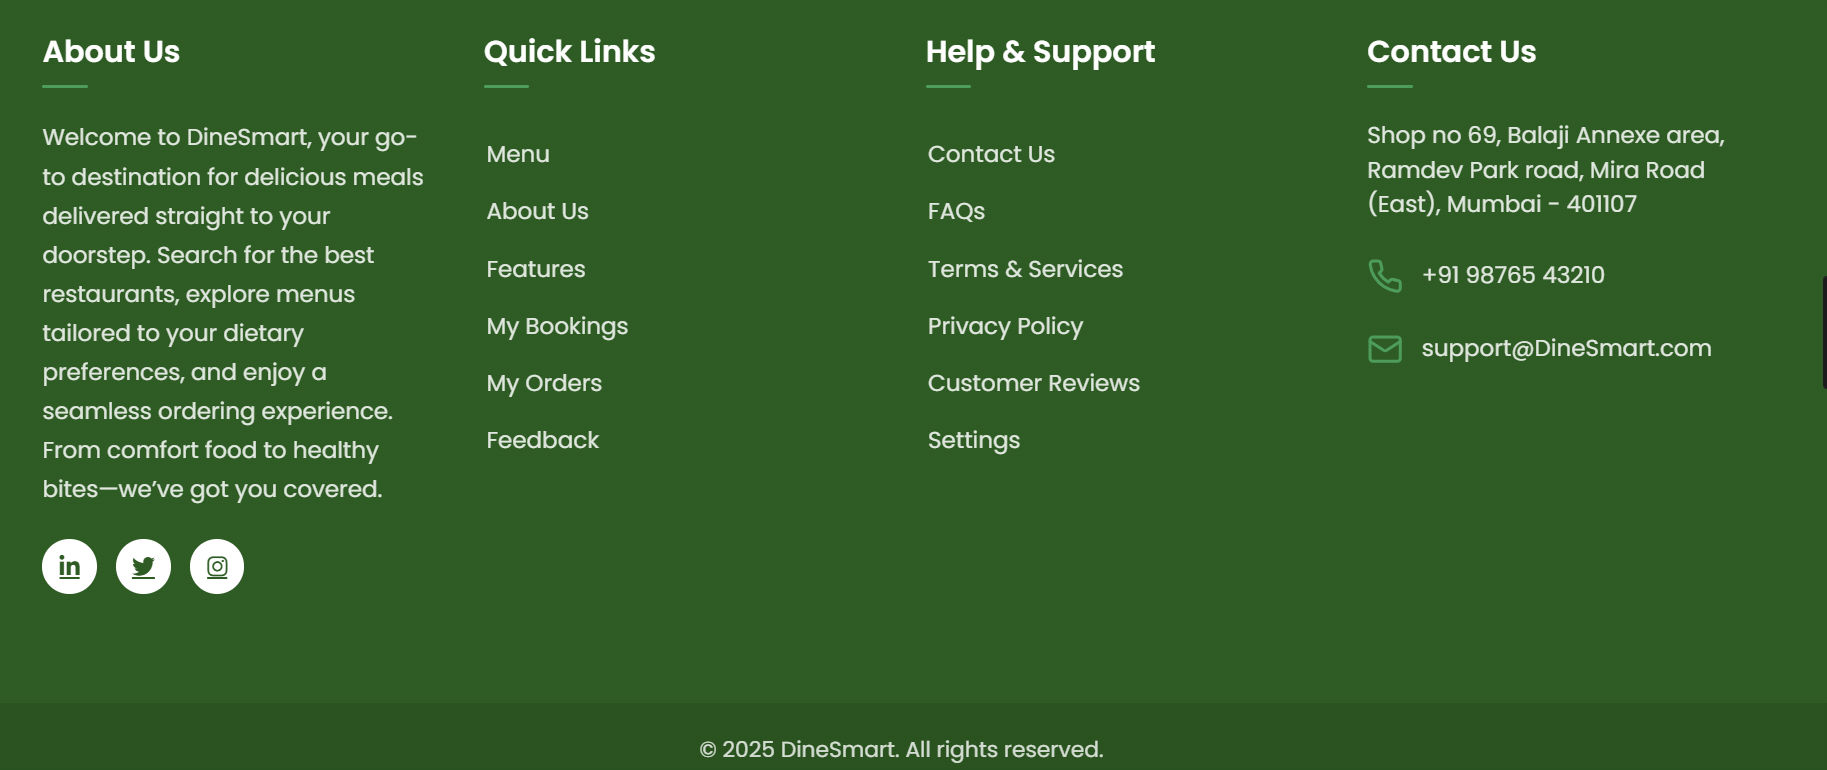
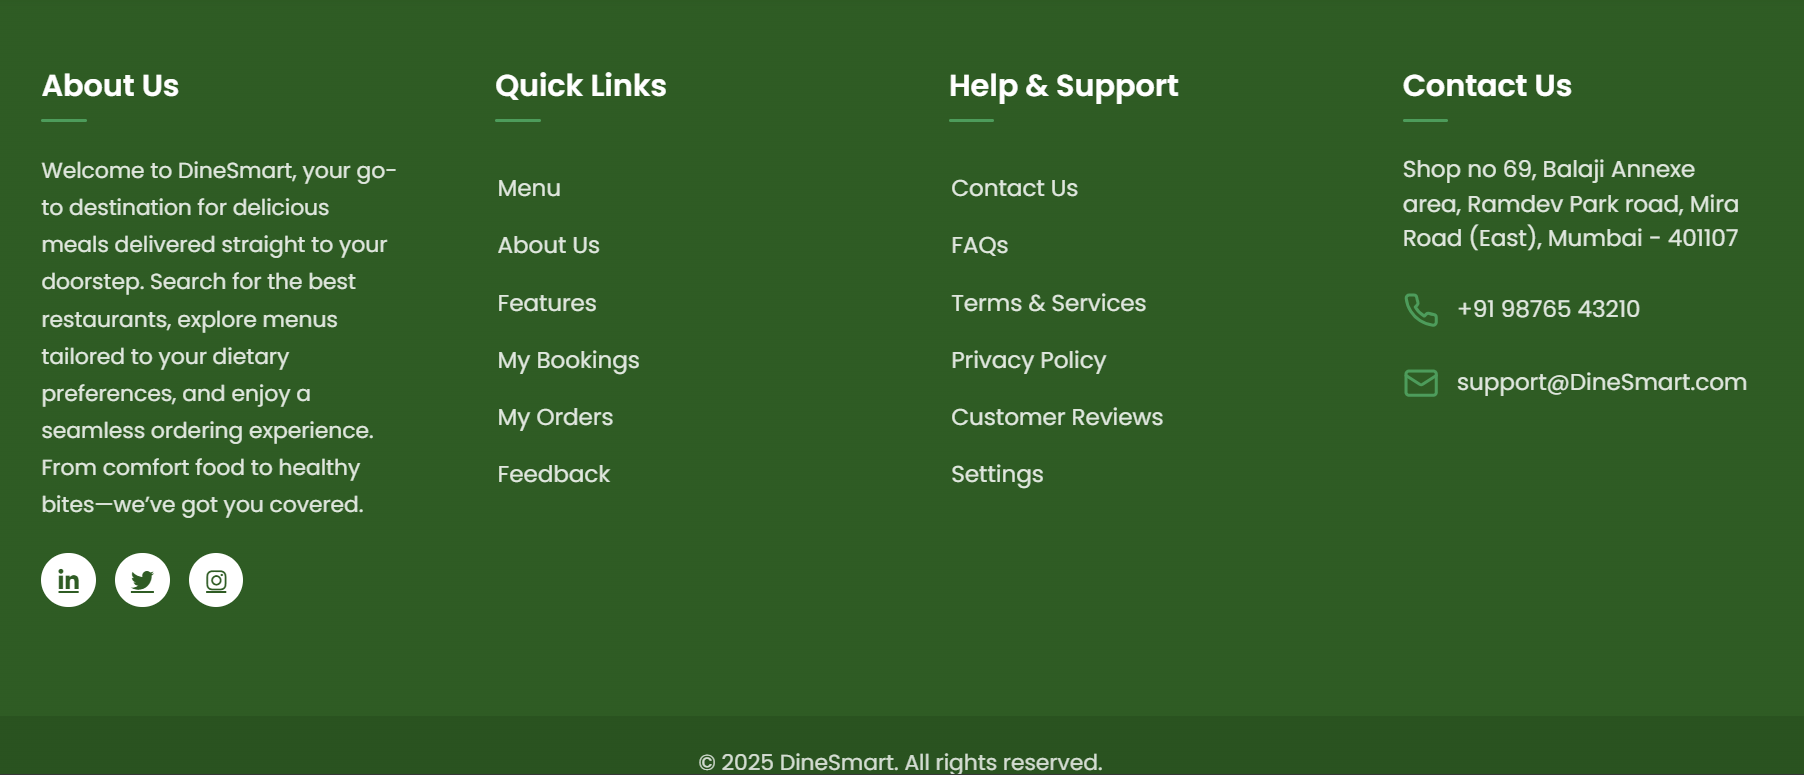
updated footer and images

diff --git a/frontend/src/components/Footer/Footer.module.css b/frontend/src/components/Footer/Footer.module.css
@@ -30,7 +30,7 @@
 .row {
   display: flex;
   flex-wrap: wrap;
-  gap: 2rem;
+  gap: 4rem;
   justify-content: space-between;
   margin-bottom: 1.5rem;
 }
@@ -64,7 +64,7 @@
 }
 
 .footerDescription {
-  font-size: 0.95rem;
+  font-size: 0.9rem;
   line-height: 1.7;
   color: rgba(255, 255, 255, 0.85);
   margin-bottom: 1.25rem;
